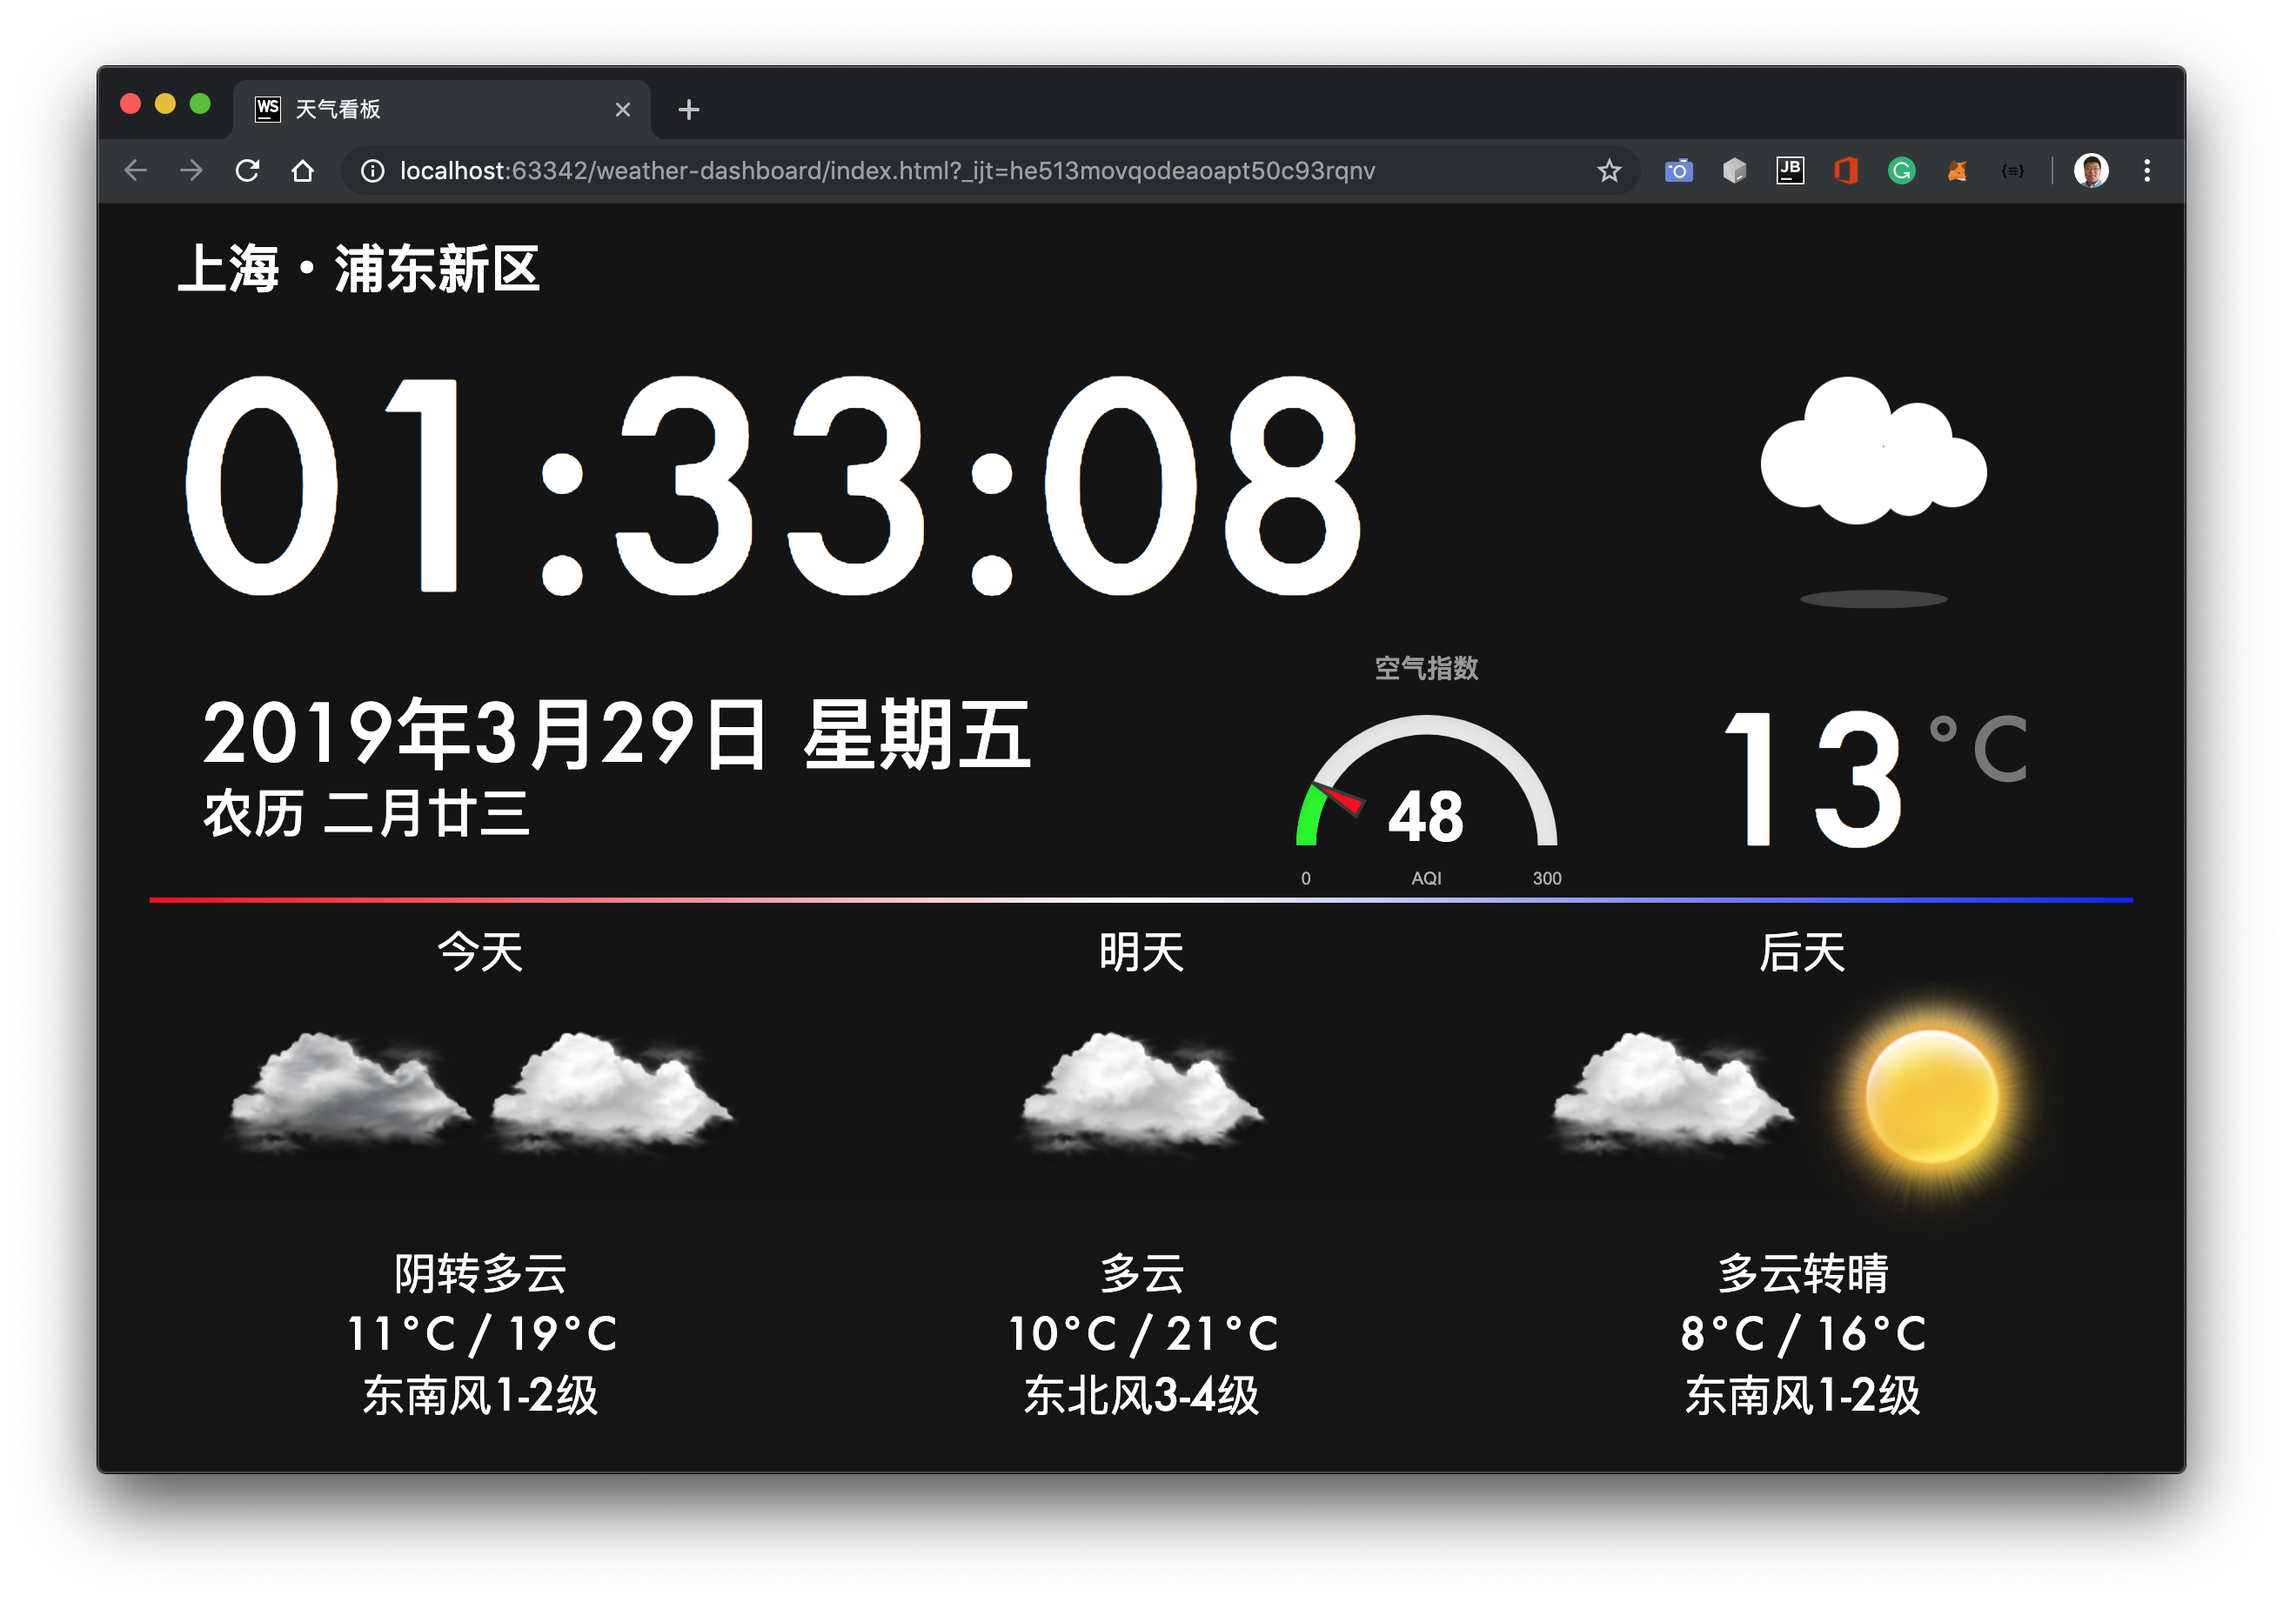
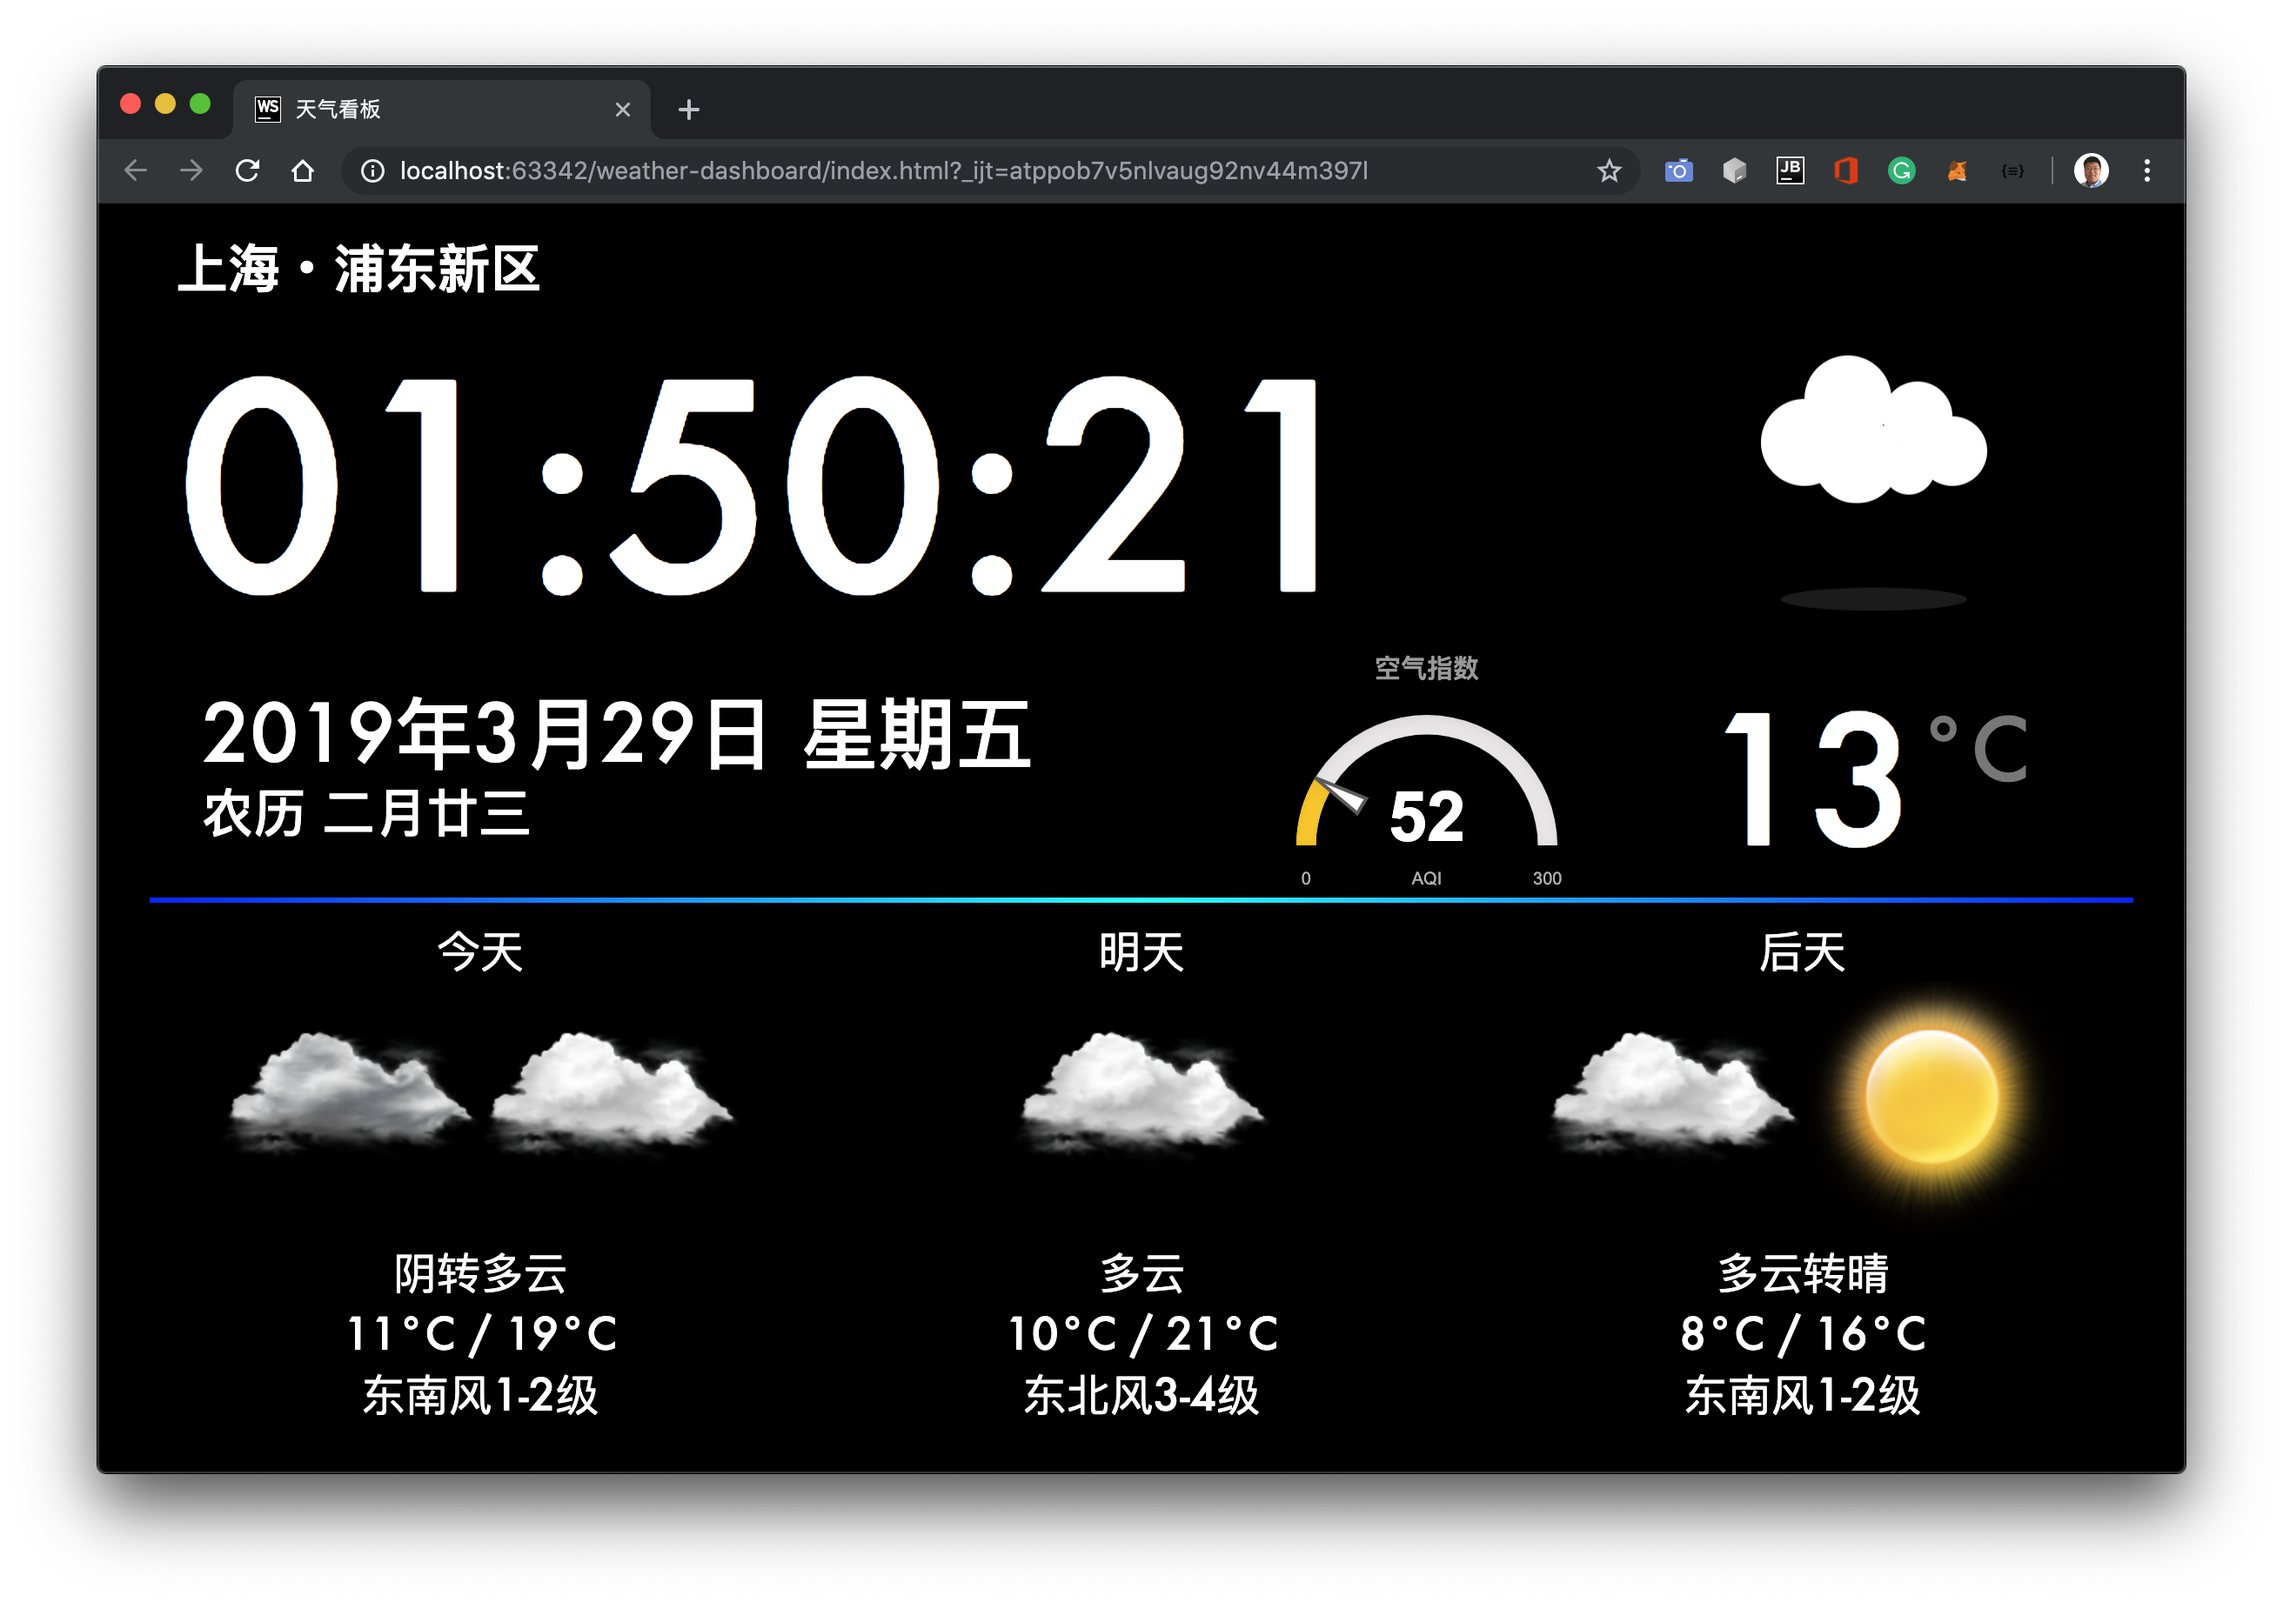
black is black

diff --git a/static/css/widget.css b/static/css/widget.css
@@ -1,5 +1,5 @@
 body {
-    background-color: #151515;
+    background-color: #000;
     font-family: Futura, Helvetica, Arial, sans-serif;
     color: #fff;
 }
@@ -53,9 +53,9 @@ hr {
     margin-bottom: 10px;
 
     background-size: 100%;
-    background-image: -webkit-gradient(linear, 0% 50%, 100% 50%, color-stop(0%, #ff0000), color-stop(50%, #ffffff), color-stop(100%, #0000ff));
-    background-image: -webkit-linear-gradient(left, #ff0000, #ffffff, #0000ff);
-    background-image: linear-gradient(to right, #ff0000, #ffffff, #0000ff);
+    background-image: -webkit-gradient(linear, 0% 50%, 100% 50%, color-stop(0%, #0000ff), color-stop(50%, #00ffff), color-stop(100%, #0000ff));
+    background-image: -webkit-linear-gradient(left, #0000ff, #00ffff, #0000ff);
+    background-image: linear-gradient(to right, #0000ff, #00ffff, #0000ff);
 }
 
 h1,

diff --git a/static/js/clockweather.js b/static/js/clockweather.js
@@ -39,8 +39,8 @@ $(function () {
             toplength: 0,
             bottomlength: 20,
             bottomwidth: 5,
-            color: '#ff0000',
-            stroke: '#3b3b3b',
+            color: '#ffffff',
+            stroke: '#5a5a5a',
             stroke_width: 2,
             stroke_linecap: 'round'
         },
